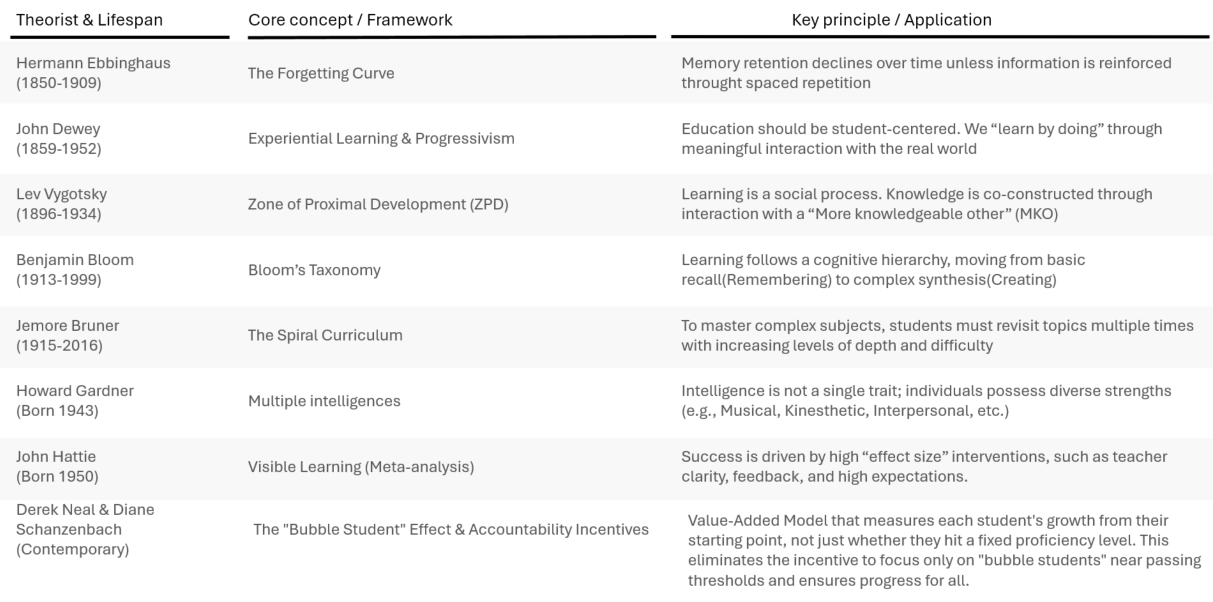
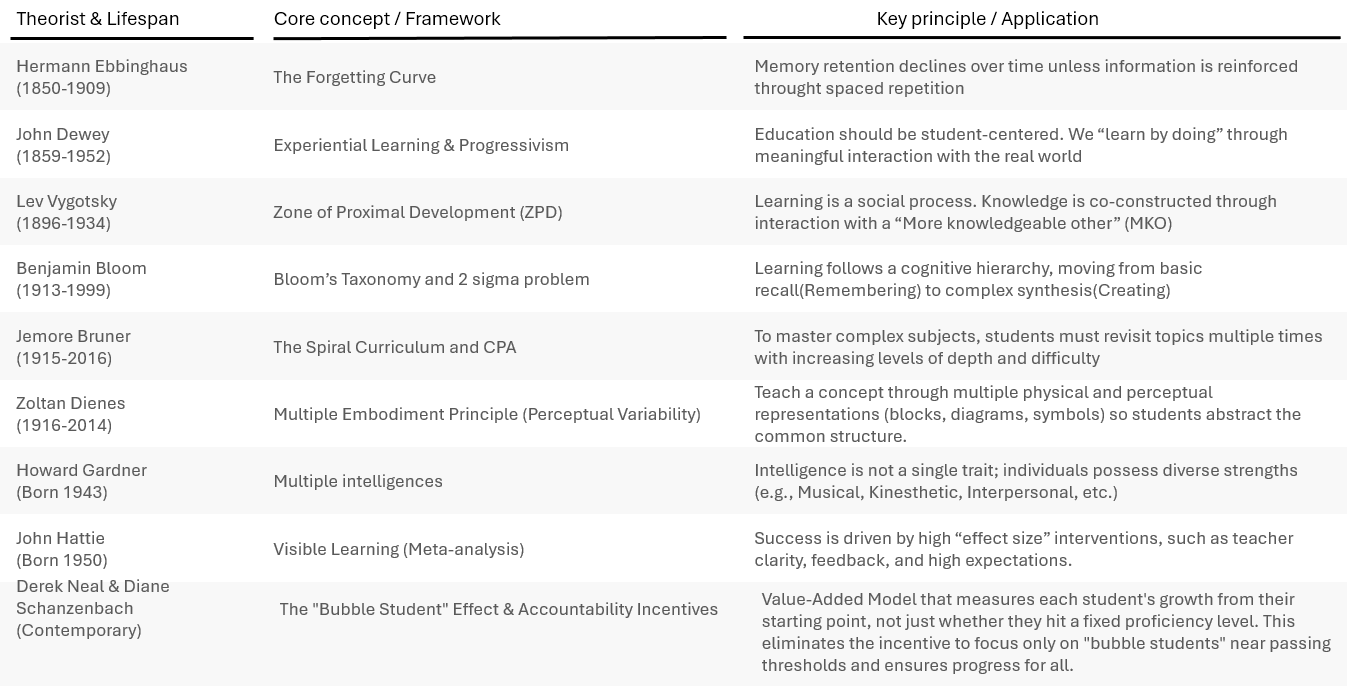
update documentation

diff --git a/docs/projects.html b/docs/projects.html
@@ -2,7 +2,7 @@
 <html xmlns="http://www.w3.org/1999/xhtml" lang="en" xml:lang="en"><head>
 
 <meta charset="utf-8">
-<meta name="generator" content="quarto-1.10.18">
+<meta name="generator" content="quarto-1.10.19">
 
 <meta name="viewport" content="width=device-width, initial-scale=1.0, user-scalable=yes">
 
@@ -42,7 +42,7 @@ ul.task-list li input[type="checkbox"] {
 <script src="site_libs/quarto-html/tippy.umd.min.js"></script>
 <script src="site_libs/quarto-html/anchor.min.js"></script>
 <link href="site_libs/quarto-html/tippy.css" rel="stylesheet">
-<link href="site_libs/quarto-html/quarto-syntax-highlighting-64a204ab8560d761af7679ceaba22944.css" rel="stylesheet" id="quarto-text-highlighting-styles">
+<link href="site_libs/quarto-html/quarto-syntax-highlighting-bf27225e3a48a9273f3daa8f8e829971.css" rel="stylesheet" id="quarto-text-highlighting-styles">
 <script src="site_libs/bootstrap/bootstrap.min.js"></script>
 <link href="site_libs/bootstrap/bootstrap-icons.css" rel="stylesheet">
 <link href="site_libs/bootstrap/bootstrap-eb02f5e377e6cd497535bd7e8d754008.min.css" rel="stylesheet" append-hash="true" id="quarto-bootstrap" data-mode="light">
